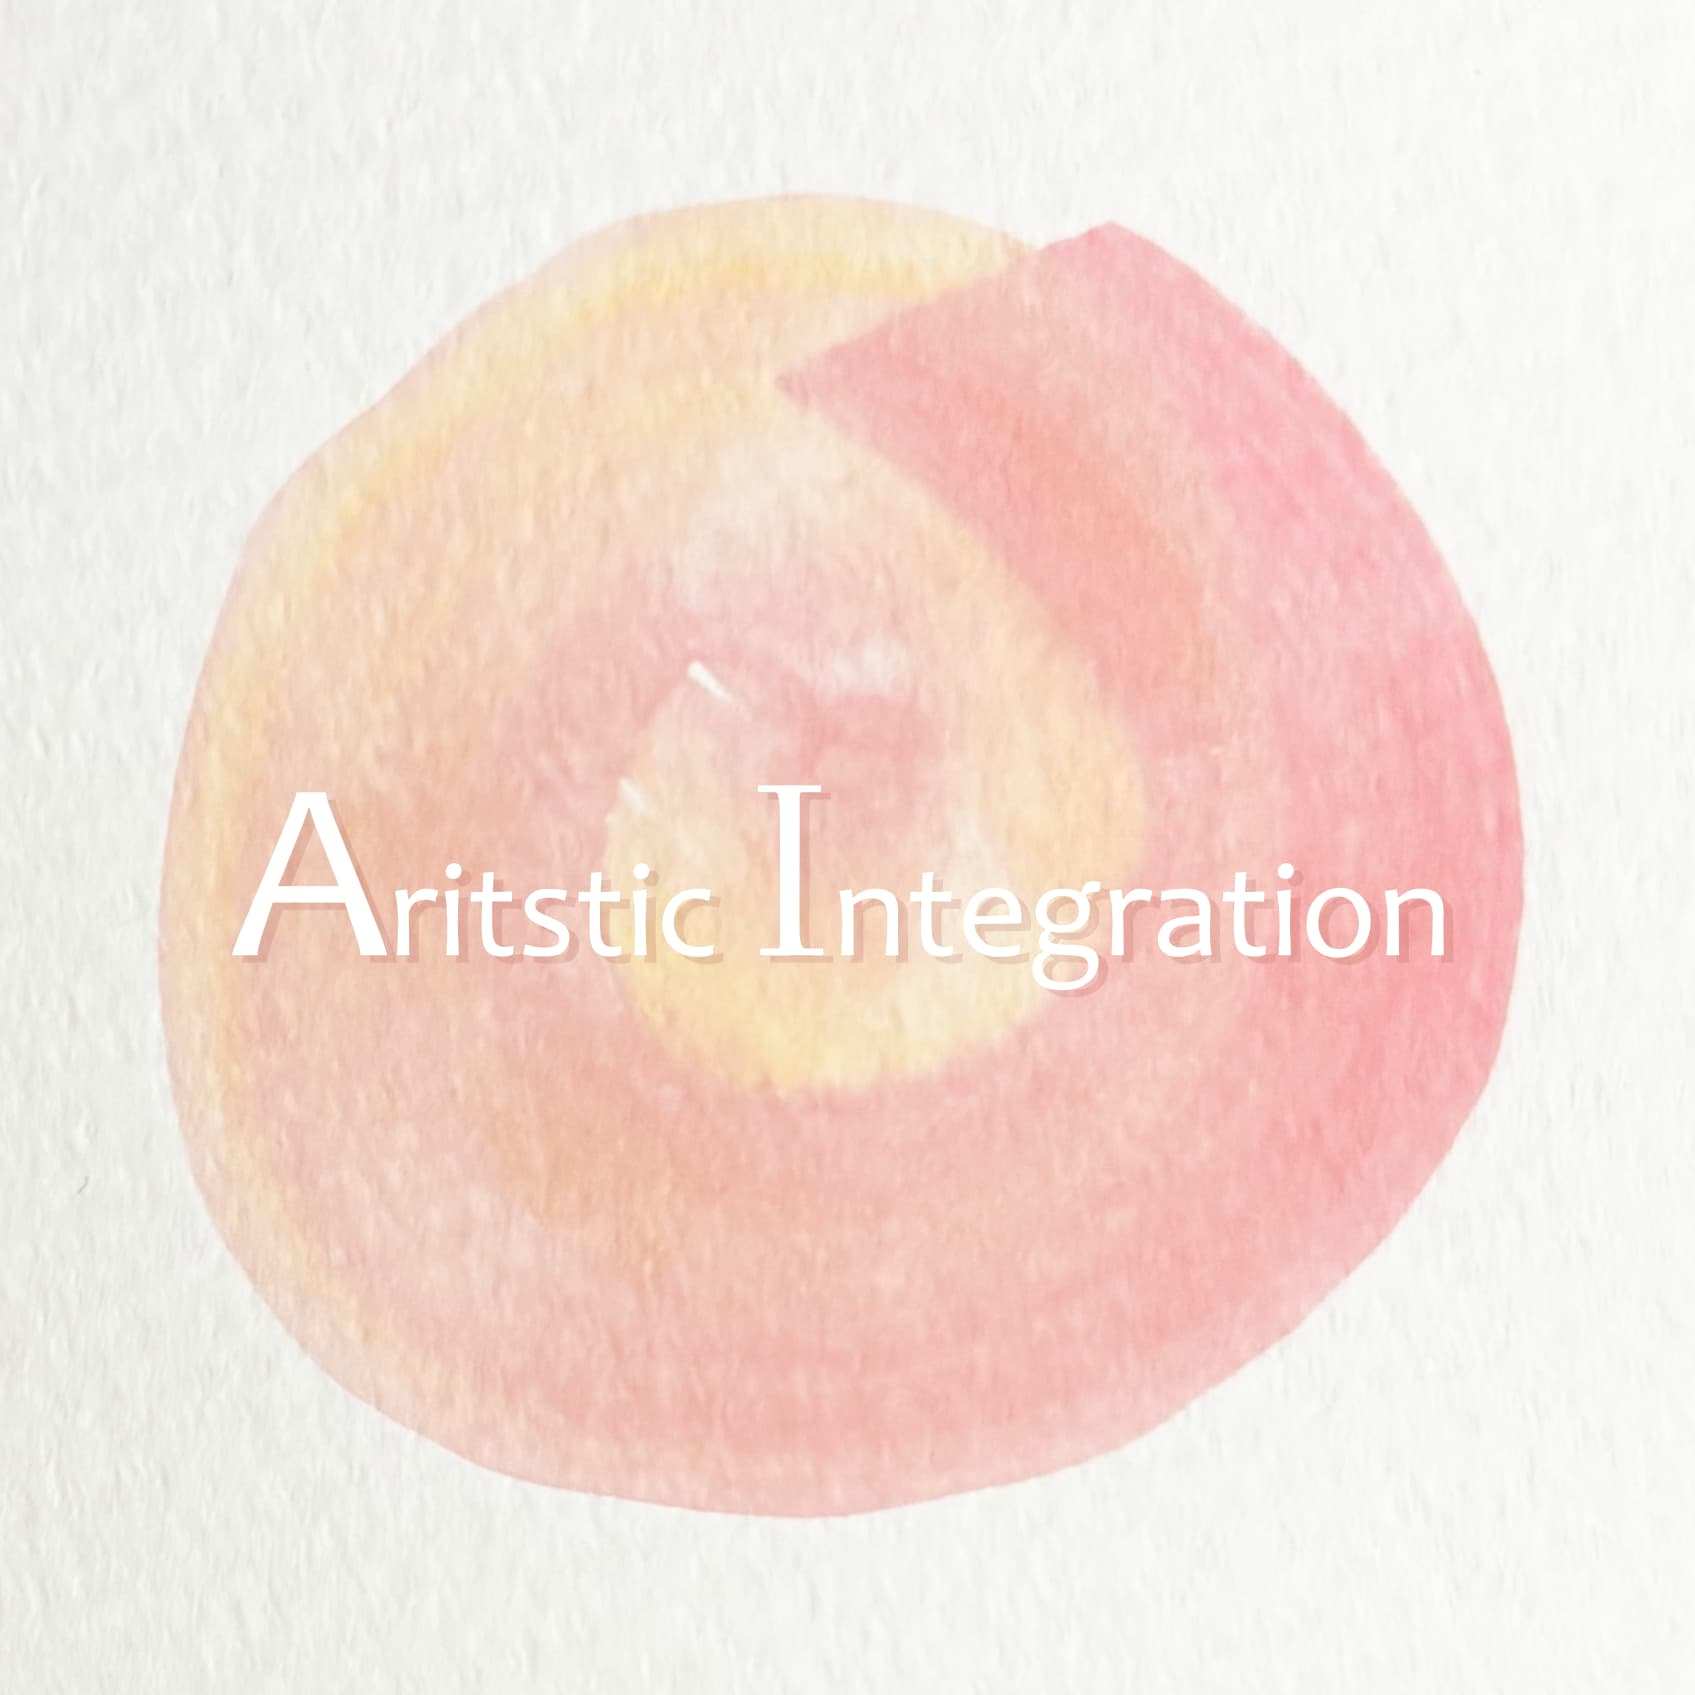
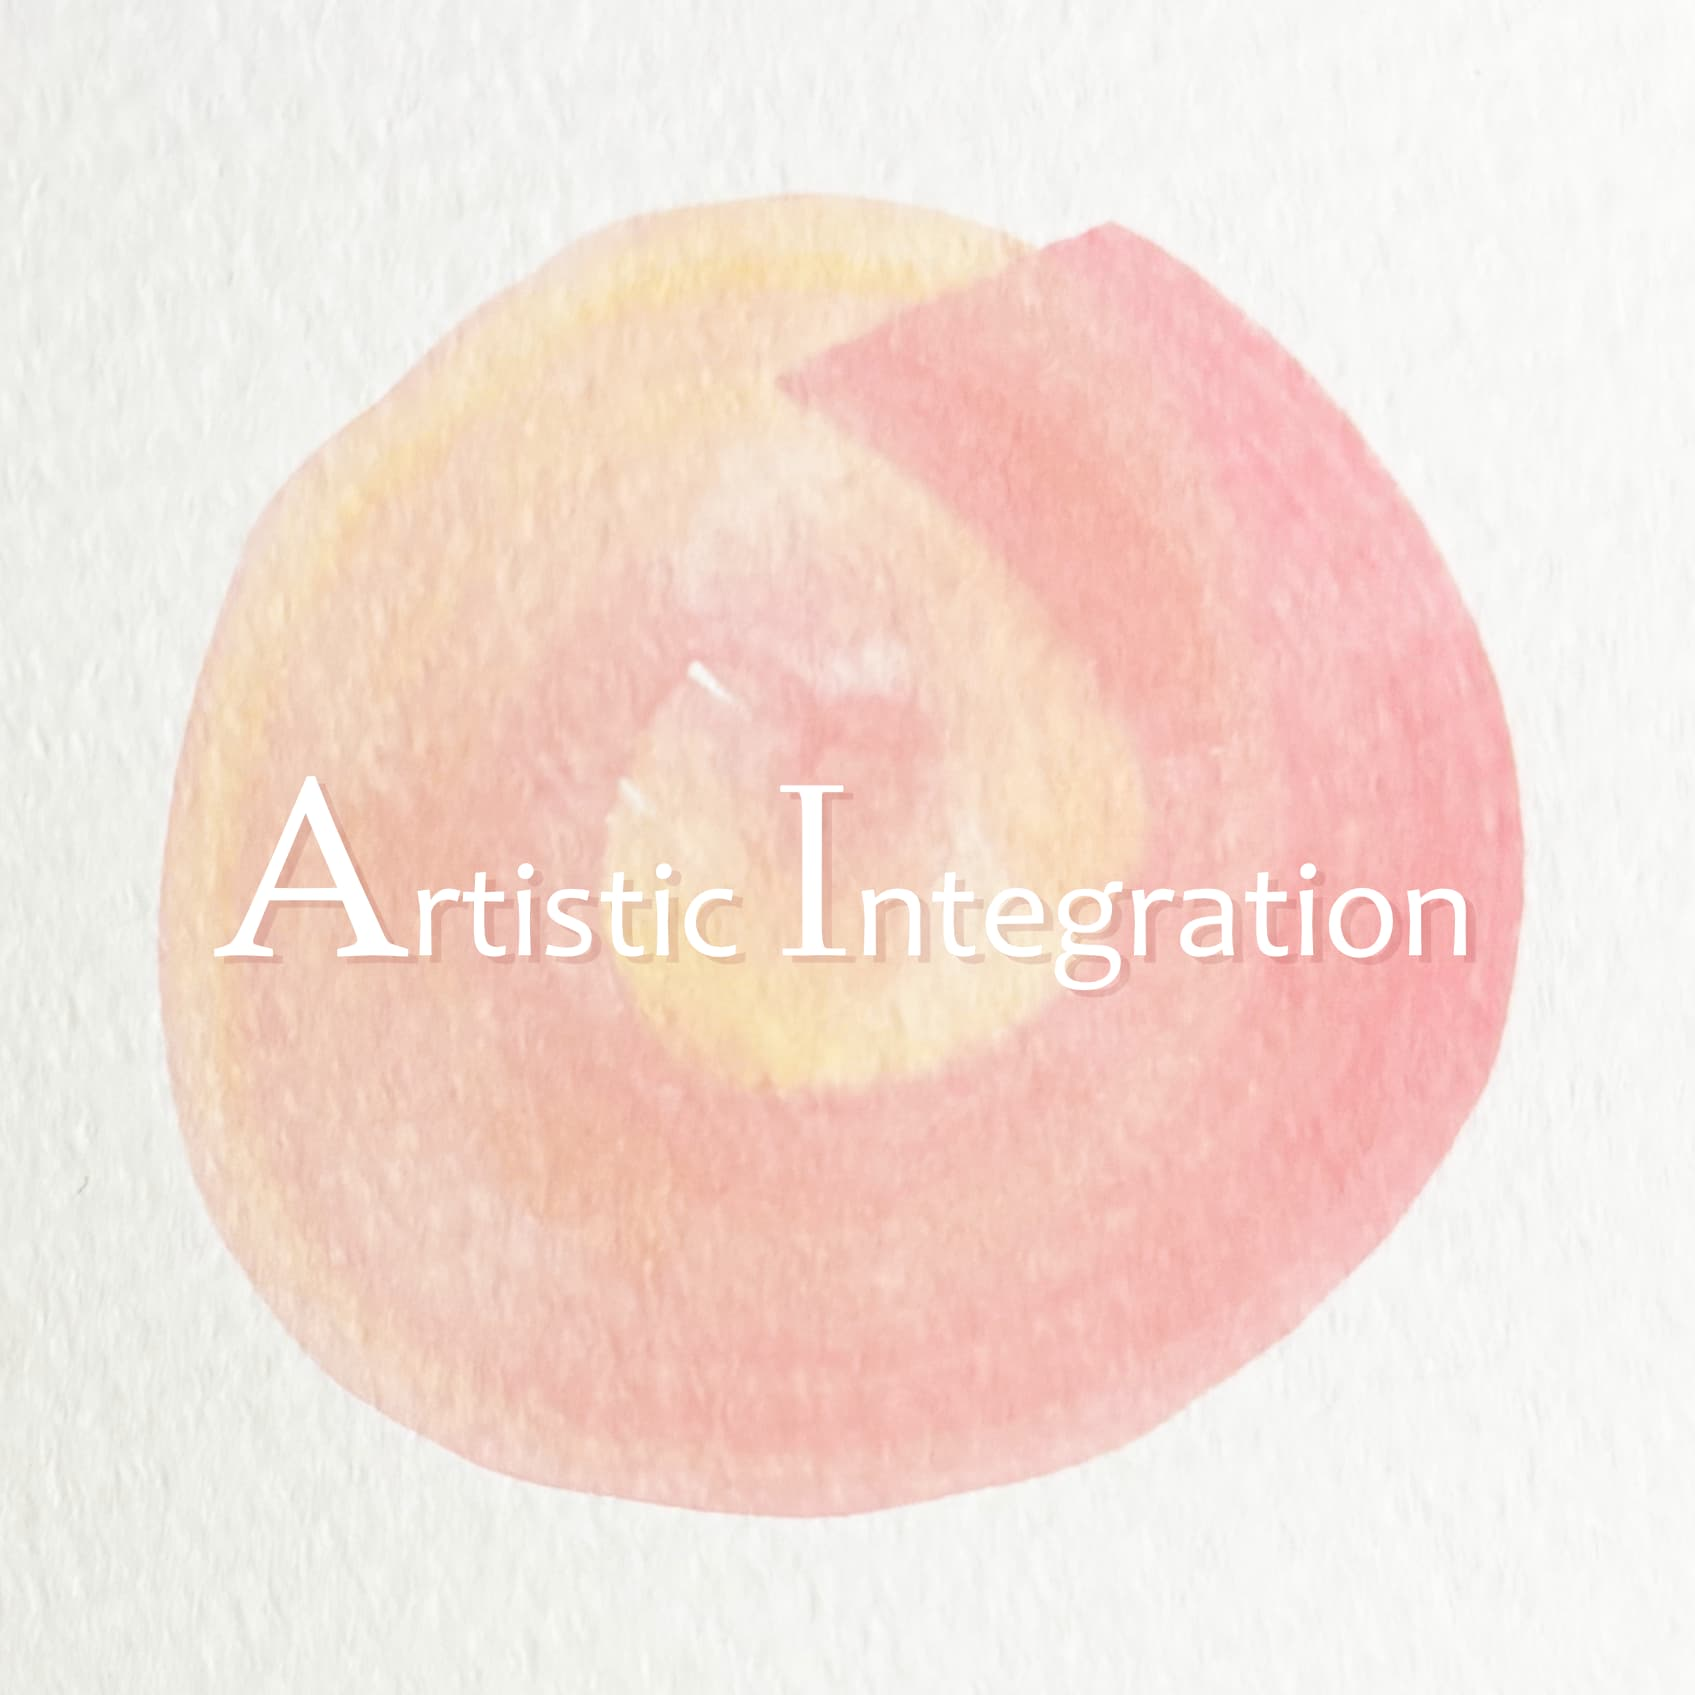
修正

diff --git a/data/works.ts b/data/works.ts
@@ -9,6 +9,39 @@ export type Work = {
 export const works: Work[] = [
   {
     id: "work1",
+    title: { ja: "可聴化される遺伝子", en: "Audible Genes" },
+    description: {
+      ja: "DNA 配列のデータを、実行可能な命令セットとして再定義した上で、音楽理論に基づく音響に即時変換し、自己の生命情報を音楽作品として体験するためのシステム。コンプレックスである自らの身体を美しい音楽に変換することで、克服しようとする試み。",
+      en: "This system redefines DNA sequence data as an executable set of instructions, translating it instantly into sound based on music theory, and allows users to experience their own biological information as a musical composition. It is an attempt to overcome my body—which is perceived as a source of complexity—by transforming it into beautiful music.",
+    },
+    memberIds: [
+      "Yayoi_Okamoto",
+      "Yuki_Kamon",
+      "Tadasuke_Koshimbo",
+      "Hiroaki_Tsuneizumi",
+    ],
+  },
+  {
+    id: "work2",
+    title: { ja: "paw walk", en: "paw walk" },
+    description: {
+      ja: "犬が肉球で受ける歩行感覚を、人間の手のひらへ授ける。\n触覚体験と、犬視点での映像が、見慣れた街の風景を「あしもと３０センチ」から捉え直す。\nそして、犬の身体を通して歩くことで、私たち自身の身体感覚を再発見するとともに、都市環境は、誰にとっての「快適さ」として設計されてきたのかを問いかける。",
+      en: "This work transfers the sensation of walking through a dog's paw pads into the human palm. Combining a tactile experience with video from a dog's perspective, it invites participants to re-experience familiar urban landscapes from just 30 centimeters above the ground. By walking through the body of a dog, we not only rediscover our own embodied sense of perception, but also question for whom urban environments have been designed as spaces of “comfort.”",
+    },
+    memberIds: ["Hinako_Makita"],
+  },
+  {
+    id: "work3",
+    image: "/works/mollusk.png",
+    title: { ja: "Mollusk", en: "Mollusk" },
+    description: {
+      ja: "私たちはつねに何かに触れている。\nその感覚は日常の背景に消えていく。\n本作品では、形を定めず水中で蠢くタコの腕が、鑑賞者の手に巻きつく。皮膚を這い、手を囲い込むその異物の触覚は、普段は意識の外に沈んでいる感覚を強く呼び覚ます。\nそれは心地よさではなく、背景化していた身体の輪郭を取り戻す瞬間となる。",
+      en: "We are always touching something.\nYet these sensations fade into the background of everyday life.\nIn this work, an octopus arm, writhing underwater without a fixed form, wraps around the viewer’s hand. As it crawls over the skin and encloses the hand, its alien tactility forcefully awakens sensations that usually sink beyond our awareness.\nIt is not comfort, but a moment in which the body’s backgrounded contours return.",
+    },
+    memberIds: ["Ryuhei_Sugimoto"],
+  },
+  {
+    id: "work4",
     image: "/works/breathing_currents.jpg",
     title: { ja: "Breathing Currents", en: "Breathing Currents" },
     description: {
@@ -18,17 +51,7 @@ export const works: Work[] = [
     memberIds: ["Meika_Mizuno", "Yufei_Wu"],
   },
   {
-    id: "work2",
-    image: "/works/echoes_like_waves.jpg",
-    title: { ja: "残響は波のように", en: "Echoes Like Waves" },
-    description: {
-      ja: "戦後の経済復興と社会変容のなかで、日本の音楽文化は発展し、アジアにも影響を与えた。米軍基地文化と港町文化が交差する神奈川では、多様な音楽と人々の記憶が重なり、独自の音楽文化が育まれた。\n\n本作品は、神奈川で育った二人の音楽家を手がかりに、音楽と記憶の波紋を通して、地域に刻まれた歴史の残響をたどる。",
-      en: "In the midst of postwar economic recovery and social transformation, Japan’s music culture developed and became influential across Asia. In Kanagawa, where U.S. military base culture intersected with port-city culture, diverse musical traditions and personal memories intertwined, giving rise to a distinctive local music culture.\n\nThrough the stories of two musicians raised in Kanagawa, this work traces the historical echoes embedded in the region through the ripples of music and memory.",
-    },
-    memberIds: ["Gao_Jiaqi"],
-  },
-  {
-    id: "work3",
+    id: "work5",
     image: "/works/fashitecture.jpg",
     title: { ja: "空間を纏う", en: "Fashitecture" },
     description: {
@@ -38,7 +61,7 @@ export const works: Work[] = [
     memberIds: ["Yugo_Tamakia", "Arata_Kotani"],
   },
   {
-    id: "work4",
+    id: "work6",
     image: "/works/memory_landscapes.jpg",
     title: { ja: "記憶の風景を歩くVR", en: "Memory Landscapes" },
     description: {
@@ -54,51 +77,24 @@ export const works: Work[] = [
     ],
   },
   {
-    id: "work5",
-    image: "/works/ai_artistic_integration.jpg",
-    title: { ja: "AI：Artistic Integration", en: "AI：Artistic Integration" },
-    description: {
-      ja: "布に覆われ、正体を見せない「モチーフ」あなたはその中身を想像し、傍らのホワイトボードに線を描き加える\n\n描いた軌跡は他者に侵食され、混ざり合う\n\n正解のない問いに向かって、人々の意識が不確かに「たゆたう」時間の記録\nそこに、あなたは何を見出すか",
-      en: "A form shrouded in cloth, its true shape concealed.You imagine what’s inside, adding a line to the whiteboard beside you.\n\nThe lines you draw will be disrupted by others and blend together.\nIt is a record of time, in which people’s consciousness “tayutau (drifts)” uncertainly toward a correct answer that does not (even) exist.\nWhat do you see beneath this cloth?",
-    },
-    memberIds: ["Hinata_Mikami", "Taisei_Fukaya"],
-  },
-  {
-    id: "work6",
-    image: "/works/microorganisms.jpg",
-    title: {
-      ja: "微生物の見過ごされた美の再発見",
-      en: "Rediscovering the Overlooked Beauty of Microorganisms",
-    },
-    description: {
-      ja: "あなたは、微生物たちの美に目を向けたことがあるだろうか。本展示では、肉眼で見ることができず、普段見過ごされることが多い微生物たちの美やデザインを追求する。\nAR技術とデジタル万華鏡を用いて、実際に東京大学本郷キャンパス内に生息する微生物たちと来場者によるバイオアート制作を試みる。",
-      en: "Have you ever paid attention to the beauty of microorganisms? This exhibition explores the aesthetics and forms of microorganisms—life forms too small to be seen with the naked eye and often overlooked in our daily lives.\nUsing AR technology and a digital kaleidoscope, this exhibition invites visitors to create bio‑art in collaboration with microorganisms inhabiting the University of Tokyo’s Hongo campus.",
-    },
-    memberIds: ["Taisei_Fukaya"],
-  },
-  {
     id: "work7",
-    image: "/works/mollusk.png",
-    title: { ja: "Mollusk", en: "Mollusk" },
+    image: "/works/echoes_like_waves.jpg",
+    title: { ja: "残響は波のように", en: "Echoes Like Waves" },
     description: {
-      ja: "私たちはつねに何かに触れている。\nその感覚は日常の背景に消えていく。\n本作品では、形を定めず水中で蠢くタコの腕が、鑑賞者の手に巻きつく。皮膚を這い、手を囲い込むその異物の触覚は、普段は意識の外に沈んでいる感覚を強く呼び覚ます。\nそれは心地よさではなく、背景化していた身体の輪郭を取り戻す瞬間となる。",
-      en: "We are always touching something.\nYet these sensations fade into the background of everyday life.\nIn this work, an octopus arm, writhing underwater without a fixed form, wraps around the viewer’s hand. As it crawls over the skin and encloses the hand, its alien tactility forcefully awakens sensations that usually sink beyond our awareness.\nIt is not comfort, but a moment in which the body’s backgrounded contours return.",
+      ja: "戦後の経済復興と社会変容のなかで、日本の音楽文化は発展し、アジアにも影響を与えた。米軍基地文化と港町文化が交差する神奈川では、多様な音楽と人々の記憶が重なり、独自の音楽文化が育まれた。\n\n本作品は、神奈川で育った二人の音楽家を手がかりに、音楽と記憶の波紋を通して、地域に刻まれた歴史の残響をたどる。",
+      en: "In the midst of postwar economic recovery and social transformation, Japan’s music culture developed and became influential across Asia. In Kanagawa, where U.S. military base culture intersected with port-city culture, diverse musical traditions and personal memories intertwined, giving rise to a distinctive local music culture.\n\nThrough the stories of two musicians raised in Kanagawa, this work traces the historical echoes embedded in the region through the ripples of music and memory.",
     },
-    memberIds: ["Ryuhei_Sugimoto"],
+    memberIds: ["Gao_Jiaqi"],
   },
   {
     id: "work8",
-    title: { ja: "可聴化される遺伝子", en: "Audible Genes" },
+    image: "/works/ai_artistic_integration.jpg",
+    title: { ja: "AI：Artistic Integration", en: "AI：Artistic Integration" },
     description: {
-      ja: "DNA 配列のデータを、実行可能な命令セットとして再定義した上で、音楽理論に基づく音響に即時変換し、自己の生命情報を音楽作品として体験するためのシステム。コンプレックスである自らの身体を美しい音楽に変換することで、克服しようとする試み。",
-      en: "This system redefines DNA sequence data as an executable set of instructions, translating it instantly into sound based on music theory, and allows users to experience their own biological information as a musical composition. It is an attempt to overcome my body—which is perceived as a source of complexity—by transforming it into beautiful music.",
+      ja: "布に覆われ、正体を見せない「モチーフ」\nあなたはその中身を想像し、\n傍らのホワイトボードに線を描き加える\n\n描いた軌跡は他者に侵食され、混ざり合う\n\n正解のない問いに向かって、人々の意識が不確かに「たゆたう」時間の記録\nそこに、あなたは何を見出すか\n\n『AI：Artistic Integration』",
+      en: "A form shrouded in cloth, its true shape concealed.You imagine what’s inside, adding a line to the whiteboard beside you.\n\nThe lines you draw will be disrupted by others and blend together.\nIt is a record of time, in which people’s consciousness “tayutau (drifts)” uncertainly toward a correct answer that does not (even) exist.\nWhat do you see beneath this cloth?\n\n『AI：Artistic Integration』",
     },
-    memberIds: [
-      "Yayoi_Okamoto",
-      "Yuki_Kamon",
-      "Tadasuke_Koshimbo",
-      "Hiroaki_Tsuneizumi",
-    ],
+    memberIds: ["Hinata_Mikami", "Taisei_Fukaya"],
   },
   {
     id: "work9",
@@ -111,11 +107,15 @@ export const works: Work[] = [
   },
   {
     id: "work10",
-    title: { ja: "paw walk", en: "paw walk" },
-    description: {
-      ja: "犬が肉球で受ける歩行感覚を、人間の手のひらへ授ける。\n触覚体験と、犬視点での映像が、見慣れた街の風景を「あしもと３０センチ」から捉え直す。\nそして、犬の身体を通して歩くことで、私たち自身の身体感覚を再発見するとともに、都市環境は、誰にとっての「快適さ」として設計されてきたのかを問いかける。",
-      en: "This work transfers the sensation of walking through a dog's paw pads into the human palm. Combining a tactile experience with video from a dog's perspective, it invites participants to re-experience familiar urban landscapes from just 30 centimeters above the ground. By walking through the body of a dog, we not only rediscover our own embodied sense of perception, but also question for whom urban environments have been designed as spaces of “comfort.”",
+    image: "/works/microorganisms.jpg",
+    title: {
+      ja: "微生物の見過ごされた美の再発見",
+      en: "Rediscovering the Overlooked Beauty of Microorganisms",
     },
-    memberIds: ["Hinako_Makita"],
+    description: {
+      ja: "あなたは、微生物たちの美に目を向けたことがあるだろうか。本展示では、肉眼で見ることができず、普段見過ごされることが多い微生物たちの美やデザインを追求する。\nAR技術とデジタル万華鏡を用いて、実際に東京大学本郷キャンパス内に生息する微生物たちと来場者によるバイオアート制作を試みる。",
+      en: "Have you ever paid attention to the beauty of microorganisms? This exhibition explores the aesthetics and forms of microorganisms—life forms too small to be seen with the naked eye and often overlooked in our daily lives.\nUsing AR technology and a digital kaleidoscope, this exhibition invites visitors to create bio‑art in collaboration with microorganisms inhabiting the University of Tokyo’s Hongo campus.",
+    },
+    memberIds: ["Taisei_Fukaya"],
   },
 ];

diff --git a/components/sections/WorksSection.tsx b/components/sections/WorksSection.tsx
@@ -51,7 +51,7 @@ export function WorksSection({ dictionary, locale }: WorksSectionProps) {
             {works.map((work) => (
               <button
                 aria-label={work.title[locale]}
-                className="group flex flex-col items-center transition-transform duration-300 hover:scale-105"
+                className="group flex w-[240px] flex-col items-center transition-transform duration-300 hover:scale-105 md:w-[280px]"
                 key={work.id}
                 onClick={() => setSelected(work)}
                 type="button"
